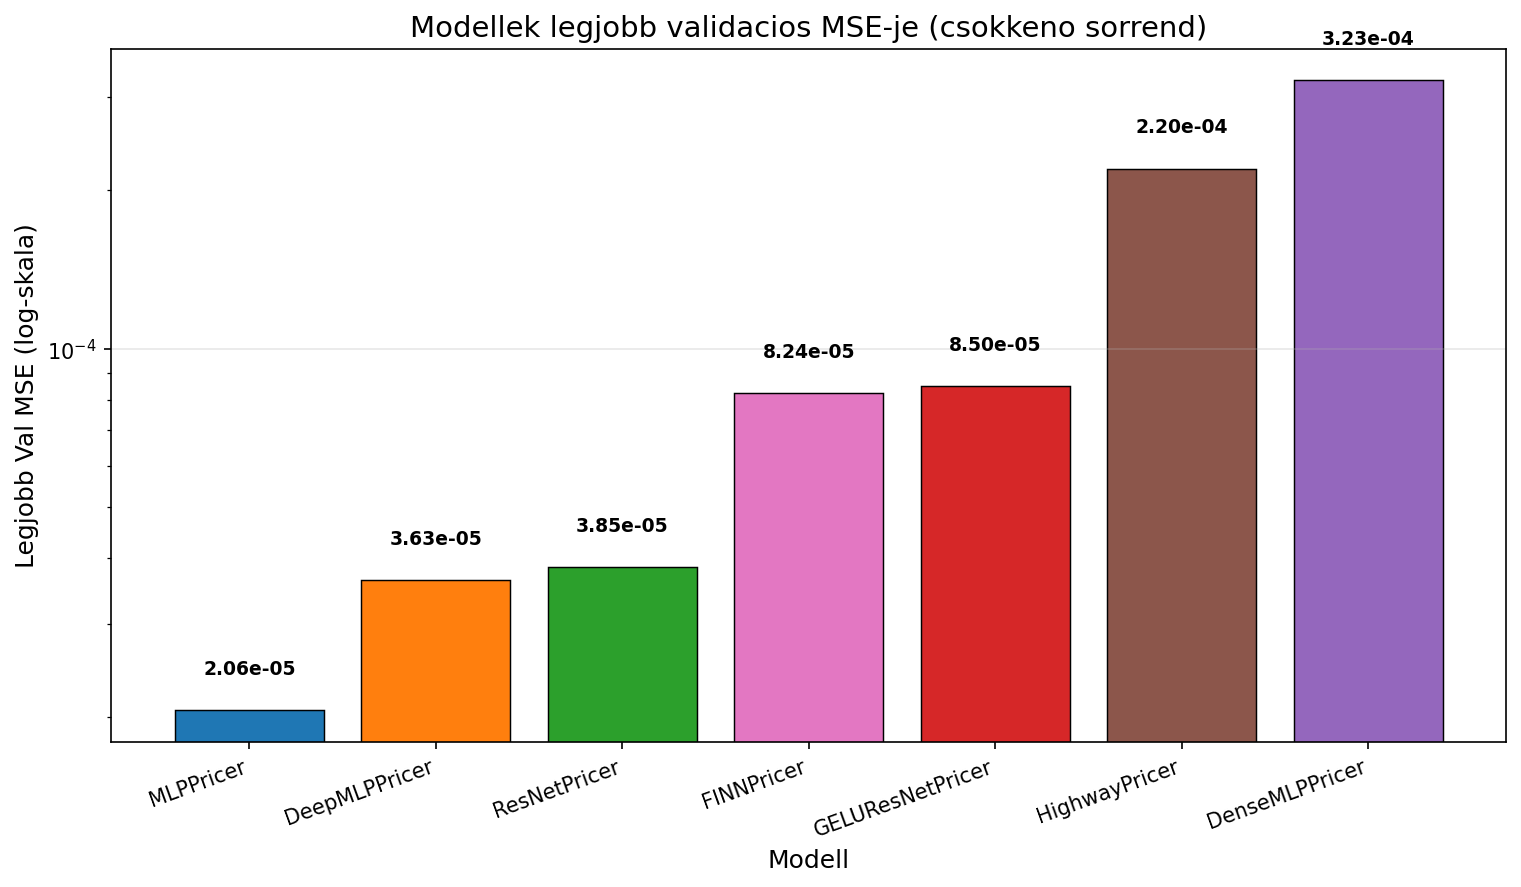
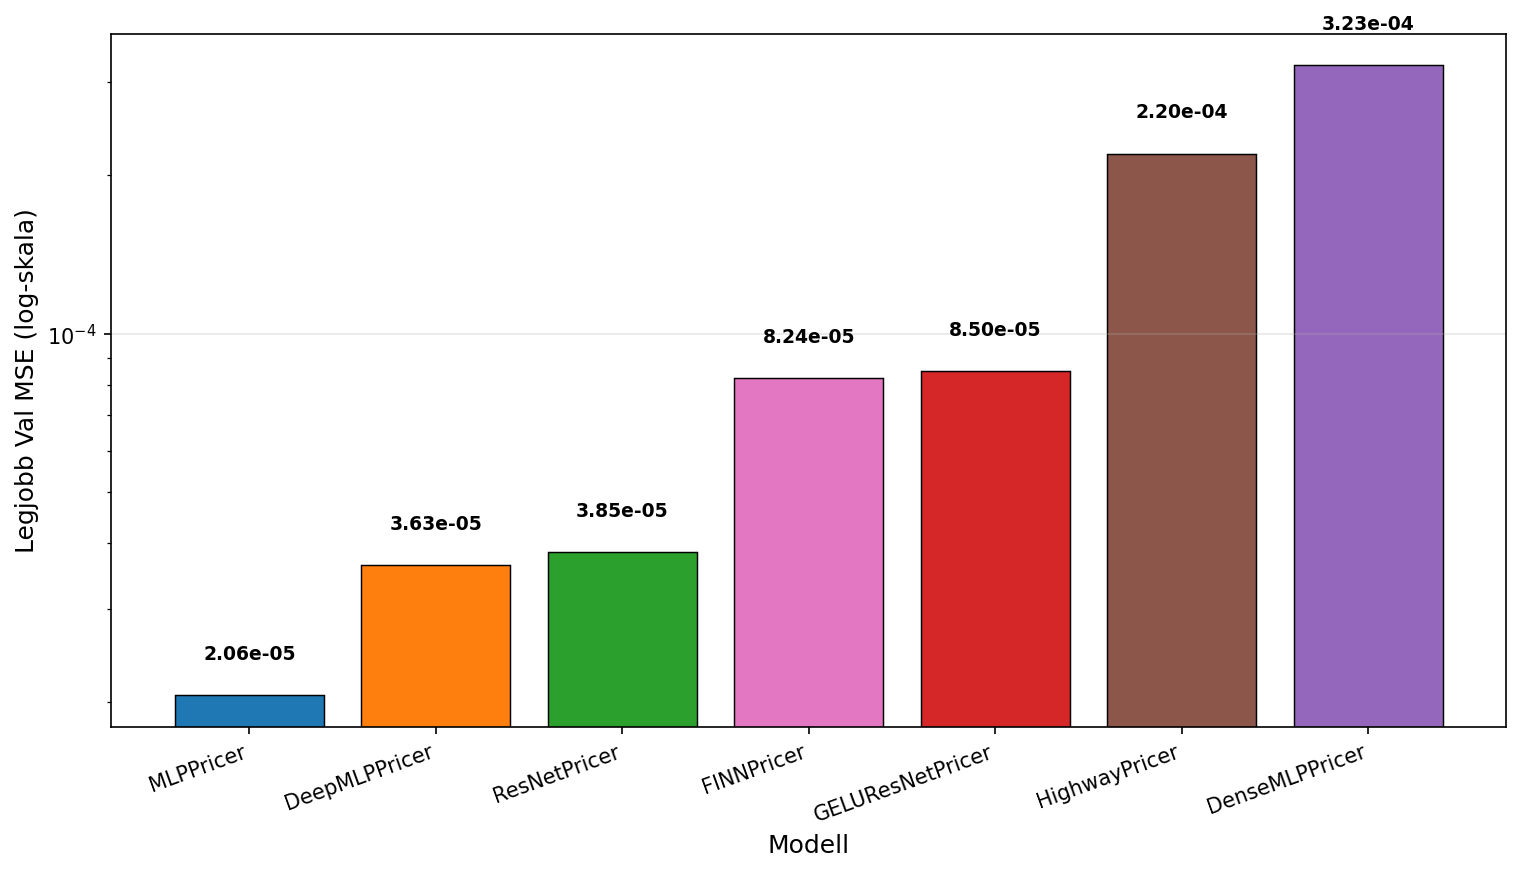
Plots: cím eltávolítva a tanulási görbe és bar chart ábrákról

diff --git a/results/plot_training_curves.py b/results/plot_training_curves.py
@@ -76,7 +76,6 @@ for i, (name, df) in enumerate(results.items()):
             color=COLORS[i % len(COLORS)], linewidth=2)
 ax.set_xlabel('Epoch', fontsize=12)
 ax.set_ylabel('Val MSE', fontsize=12)
-ax.set_title('Modellek validacios vesztesegenek osszehasonlitasa', fontsize=14)
 ax.legend()
 ax.grid(True, alpha=0.3)
 ax.set_yscale('log')
@@ -97,7 +96,6 @@ if results:
     ax.set_yscale('log')
     ax.set_xlabel('Modell', fontsize=12)
     ax.set_ylabel('Legjobb Val MSE (log-skala)', fontsize=12)
-    ax.set_title('Modellek legjobb validacios MSE-je (csokkeno sorrend)', fontsize=14)
     ax.grid(True, axis='y', alpha=0.3)
     plt.xticks(rotation=20, ha='right')
 
